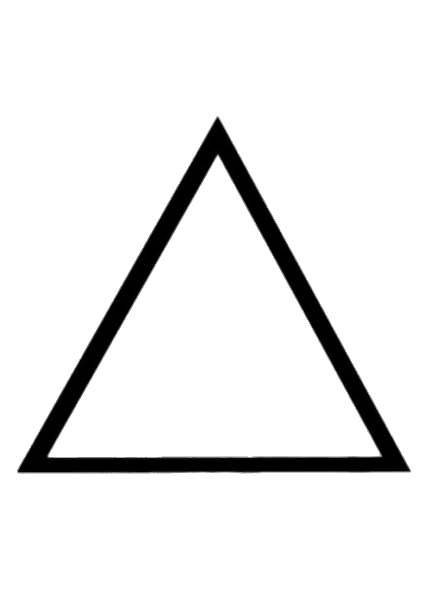
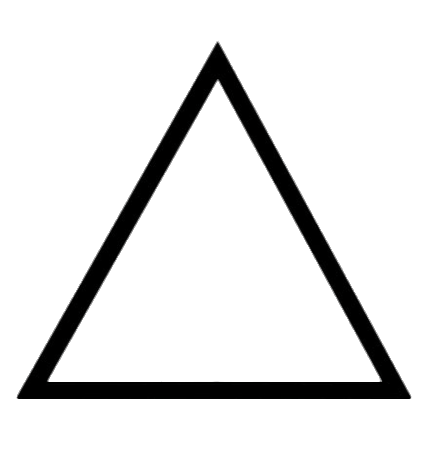
aligned figures dimentions

Changed region(s): [[0.0304, 0.4848, 0.972, 0.8788], [0.2734, 0.0909, 0.7593, 0.5455]]

diff --git a/src/index.js b/src/index.js
@@ -35,6 +35,8 @@ function areaCirculo(radio){
     return (radio * radio) * PI;
 }
 
+const fontSize = document.getElementsByClassName("result");
+
 // Funciones HTML
 
 // Cuadrado Funcion
@@ -45,9 +47,11 @@ function calcularCuadrado_P(){
 
     if (!value == "" && !value == 0) {
         const perimetro = perimetroCuadrado(value);
+        document.getElementById("cuadrado_result").style.fontSize = "25px";
         cuadrado_result.innerHTML = perimetro + "cm";
     }
     else {
+        document.getElementById("cuadrado_result").style.fontSize = "20px";
         cuadrado_result.innerHTML = "Por favor ingrese los datos requeridos";
     }
 }
@@ -58,10 +62,12 @@ function calcularCuadrado_A(){
 
     if (!value == "" && !value == 0) {
         const area = areaCuadrado(value);
+        document.getElementById("cuadrado_result").style.fontSize = "25px";
         cuadrado_result.innerHTML = area + "cm2";
     }
     else {
-        cuadrado_result.innerHTML = "Por favor ingrese los datos requeridos"
+        document.getElementById("cuadrado_result").style.fontSize = "20px";
+        cuadrado_result.innerHTML = "Por favor ingrese los datos requeridos";
     }
 }
 
@@ -80,10 +86,12 @@ function calcularTriangulo_P(){
     if (!lado1 == "" && !lado2 == "" && !base == "") {
         if (!lado1 == 0 && !lado2 == 0 && !base == 0) {
             const perimetro = perimetroTriangulo(lado1, lado2, base);
+            document.getElementById("triangulo_result").style.fontSize = "25px";
             triangulo_result.innerHTML = perimetro + "cm";
         }
     }
     else {
+        document.getElementById("triangulo_result").style.fontSize = "20px";
         triangulo_result.innerHTML = "Por favor ingrese los datos requeridos";
     }
 }
@@ -98,10 +106,12 @@ function calcularTriangulo_A(){
     if (!base == "" && !altura == "") {
         if (!base == 0 && !altura == 0) {
             const area = areaTriangulo(base, altura);
+            document.getElementById("triangulo_result").style.fontSize = "25px";
             triangulo_result.innerHTML = area + "cm2";
         }
     }
     else {
+        document.getElementById("triangulo_result").style.fontSize = "20px";
         triangulo_result.innerHTML = "Por favor ingrese los datos requeridos";
     }
 }
@@ -114,9 +124,11 @@ function calcularCirculo_P(){
 
     if (!value == "" && !value == 0) {
         const perimetro = perimetroCirculo(value);
+        document.getElementById("circulo_result").style.fontSize = "25px";
         circulo_result.innerHTML = perimetro + "cm";
     }
     else {
+        document.getElementById("circulo_result").style.fontSize = "20px";
         circulo_result.innerHTML = "Por favor ingrese los datos requeridos";
     }
 }
@@ -127,9 +139,11 @@ function calcularCirculo_A(){
 
     if (!value == "" && !value == 0) {
         const area = areaCirculo(value);
+        document.getElementById("circulo_result").style.fontSize = "25px";
         circulo_result.innerHTML = area + "cm2";
     }
     else {
+        document.getElementById("circulo_result").style.fontSize = "20px";
         circulo_result.innerHTML = "Por favor ingrese los datos requeridos";
     }
 }

diff --git a/src/style.css b/src/style.css
@@ -36,19 +36,24 @@ h3 {
     width: 400px;
 }
 .images-1 {
+    margin-top: 18px;
     height: 200px;
     width: 200px;
+}
+.images-1 + h4 {
+    margin-top: 10px;
 }
 .figures-section-2 {
     width: 400px;
     height: 740px;
 }
 .images-2 {
-    height: 235px;
+    height: 184px;
     width: 180px;
+    margin-top: 30px;
 }
 .images-2 + h4 {
-    margin-top: 0;
+    margin-top: 14px;
 }
 .figures-section-3 {
     height: 520px;
@@ -59,13 +64,16 @@ h3 {
     width: 195px;
     margin-top: 20px;
 }
+.images-3 + h4 {
+    margin-top: 13px;
+}
 .input {
     width: 300px;
     height: 30px;
     background-color: #b85aff;
     border-radius: 18px;
     text-align: center;
-    color: #34194c;
+    color: white;
     font-size: 20px;
     font-weight: bold;
     border: 2px solid #6e3685;
@@ -75,19 +83,23 @@ h3 {
 input::-webkit-outer-spin-button,
 input::-webkit-inner-spin-button {
     -webkit-appearance: none;
-        margin: 0;
+    margin: 0;
+}
+.titles {
+    margin: 10px 0;
 }
 .button {
     background-color: #d36aff;
     border: #6e3685 2px solid;
     border-radius: 16px;
-    margin-top: 20px;
+    margin-top: 12px;
     width: 168px;
     height: 32px;
-    color: black;
+    color: white;
     font-size: 15px;
     font-weight: bold
 }
-.titles {
-    margin: 10px 0;
+.result {
+    font-size: 25px;
+    margin: 22px 0 0 0;
 }

diff --git a/index.html b/index.html
@@ -35,7 +35,7 @@
                         <br>
                         <button type="button" class="button" onclick="calcularCuadrado_A()">Calcular Área</button>
 
-                        <h4 id="cuadrado_result">✔</h4>
+                        <h4 id="cuadrado_result" class="result">✔</h4>
                     </div>
                 </div>
 
@@ -74,7 +74,7 @@
                         <br>
                         <button type="button" class="button" onclick="calcularTriangulo_A()">Calcular Área</button>
 
-                        <h4 id="triangulo_result">✔</h4>
+                        <h4 id="triangulo_result" class="result">✔</h4>
                     </div>
                 </div>
 
@@ -93,7 +93,7 @@
                         <br>
                         <button type="button" class="button" onclick="calcularCirculo_A()">Calcular Área</button>
 
-                        <h4 id="circulo_result">✔</h4>
+                        <h4 id="circulo_result" class="result">✔</h4>
                     </div>
                 </div>
             </div>
